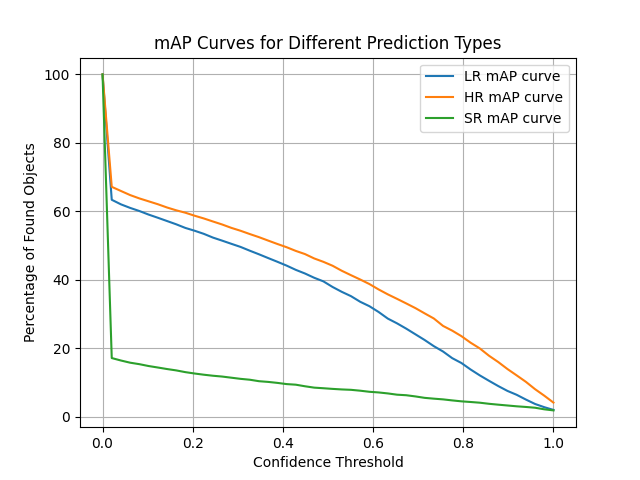
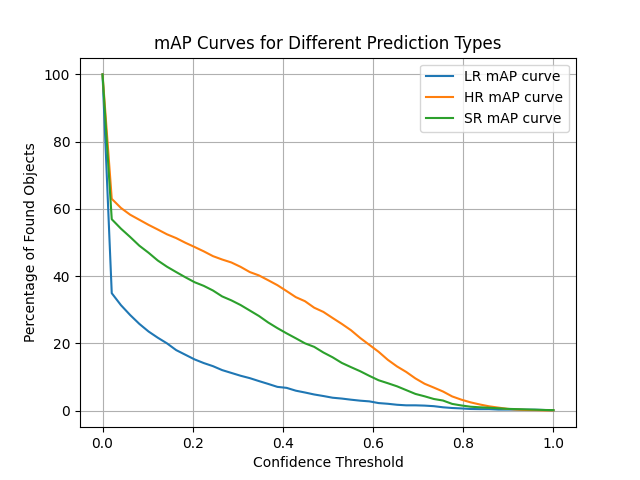
fix viz, change to DL BCE

diff --git a/validate.py b/validate.py
@@ -7,58 +7,54 @@ from omegaconf import OmegaConf
 
 # Local Imports
 from data.dataset_masks import pl_datamodule
-from model_files import UNet_pl
+from model_files.model_wrapper import model_pl
 
  
 # 0. Prepare Validation --------------------------------------------------------
 from opensr_usecases import Validator
-val_obj = Validator(device="cuda", debugging=True)
+val_obj = Validator(device="cuda", debugging=False)
 
 
 # 1. LR ---------------------------------------------------------------------
 # 1.1 Load Model and weights
 
 config = OmegaConf.load("configs/config_lr.yaml")
-model_type = config.model.model_type
-if model_type=="unet":
-    model_lr = UNet_pl(config)
-ckpt = torch.load("/data1/simon/GitHub2/building_segmentation/logs/v1_unet/lr.ckpt")
+
+model_lr = model_pl(config)
+ckpt = torch.load("logs/v2_DL/lr.ckpt")
 model_lr.load_state_dict(ckpt['state_dict'])
-
-
-
 # 1.2 Load Data
 data_module = pl_datamodule(config)
 dataloader_lr = data_module.test_dataloader()
 # 1.3 Validate
-val_obj.calculate_masks_metrics(dataloader=dataloader_lr, model=model_lr, pred_type="LR", debugging=True)
+val_obj.calculate_masks_metrics(dataloader=dataloader_lr, model=model_lr, pred_type="LR")
 
 
 # 2. HR ---------------------------------------------------------------------
 # 2.1 Load Model and weights
 config = OmegaConf.load("configs/config_hr.yaml")
-model_hr = UNet_pl(config)
-ckpt = torch.load("/data1/simon/GitHub2/building_segmentation/logs/v1_unet/hr.ckpt")
+model_hr = model_pl(config)
+ckpt = torch.load("logs/v2_DL/hr.ckpt")
 model_hr.load_state_dict(ckpt['state_dict'])
 # 2.2 Load Data
 data_module = pl_datamodule(config)
 dataloader_hr = data_module.test_dataloader()
 # 2.3 Validate
-val_obj.calculate_masks_metrics(dataloader=dataloader_hr, model=model_hr, pred_type="HR", debugging=True)
+val_obj.calculate_masks_metrics(dataloader=dataloader_hr, model=model_hr, pred_type="HR")
 
 
 
 # 3. SR ---------------------------------------------------------------------
 # 3.1 Load Model and weights
-config = OmegaConf.load("configs/config_lr.yaml")
-model_sr = UNet_pl(config)
-ckpt = torch.load("/data1/simon/GitHub2/building_segmentation/logs/v1_unet/sr.ckpt")
+config = OmegaConf.load("configs/config_sr.yaml")
+model_sr = model_pl(config)
+ckpt = torch.load("logs/v2_DL/sr.ckpt")
 model_sr.load_state_dict(ckpt['state_dict'])
 # 3.2 Load Data
 data_module = pl_datamodule(config)
 dataloader_sr = data_module.test_dataloader()
 # 3.3 Validate
-val_obj.calculate_masks_metrics(dataloader=dataloader_sr, model=model_sr, pred_type="SR", debugging=True)
+val_obj.calculate_masks_metrics(dataloader=dataloader_sr, model=model_sr, pred_type="SR")
 
 # 4. Get Metrics -------------------------------------------------------------
 # Retrieve and print the raw metrics

diff --git a/utils/logging_utils.py b/utils/logging_utils.py
@@ -84,7 +84,7 @@ def log_images(images, masks, preds, title="Training"):
             axes[i][2].imshow(pred, cmap=cmap, interpolation='none')
             axes[i][2].set_title("Predicted Mask")
         axes[i][2].axis('off')
-    
+     
     # Adjust layout
     plt.tight_layout(rect=[0, 0, 1, 0.96])
     #plt.savefig("sample_images.png")

diff --git a/README.md b/README.md
@@ -24,4 +24,7 @@ To train a segmentation model:
 3. **Validate**: Run validate.py
 - Give models and loaded weights + dataloaders to opensr-usecases package to get validation metrics.
 
-
+### Example Output
+The validation outputs a numerical caluclation of the improvement of SR basic imagery over LR, as well as mAP curves for all data types
+![example_output](resources/example_output.png)
+![example_output](resources/mAP_plot.png)
